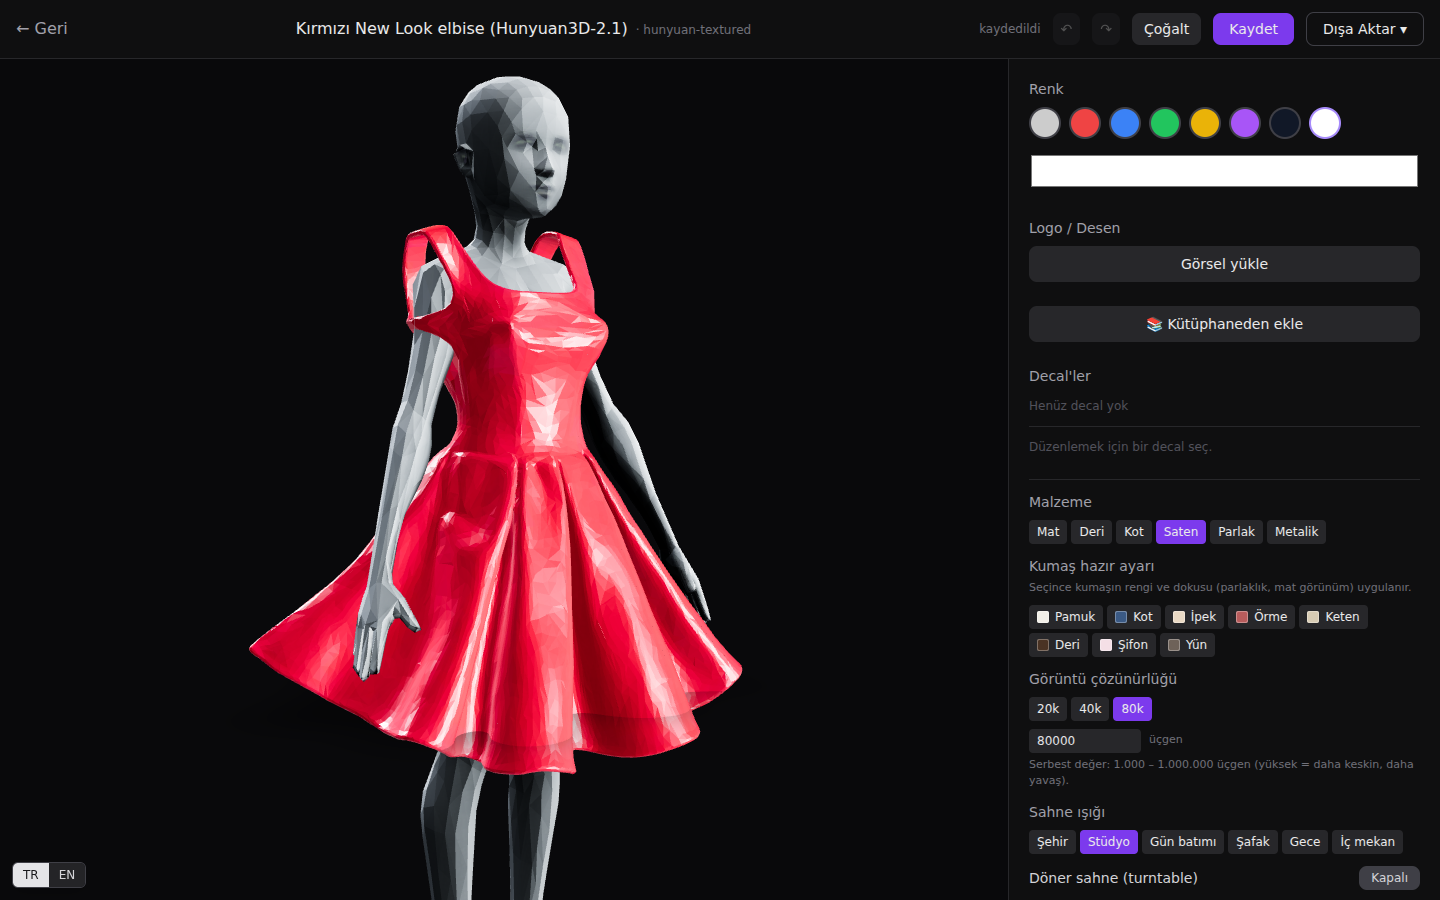
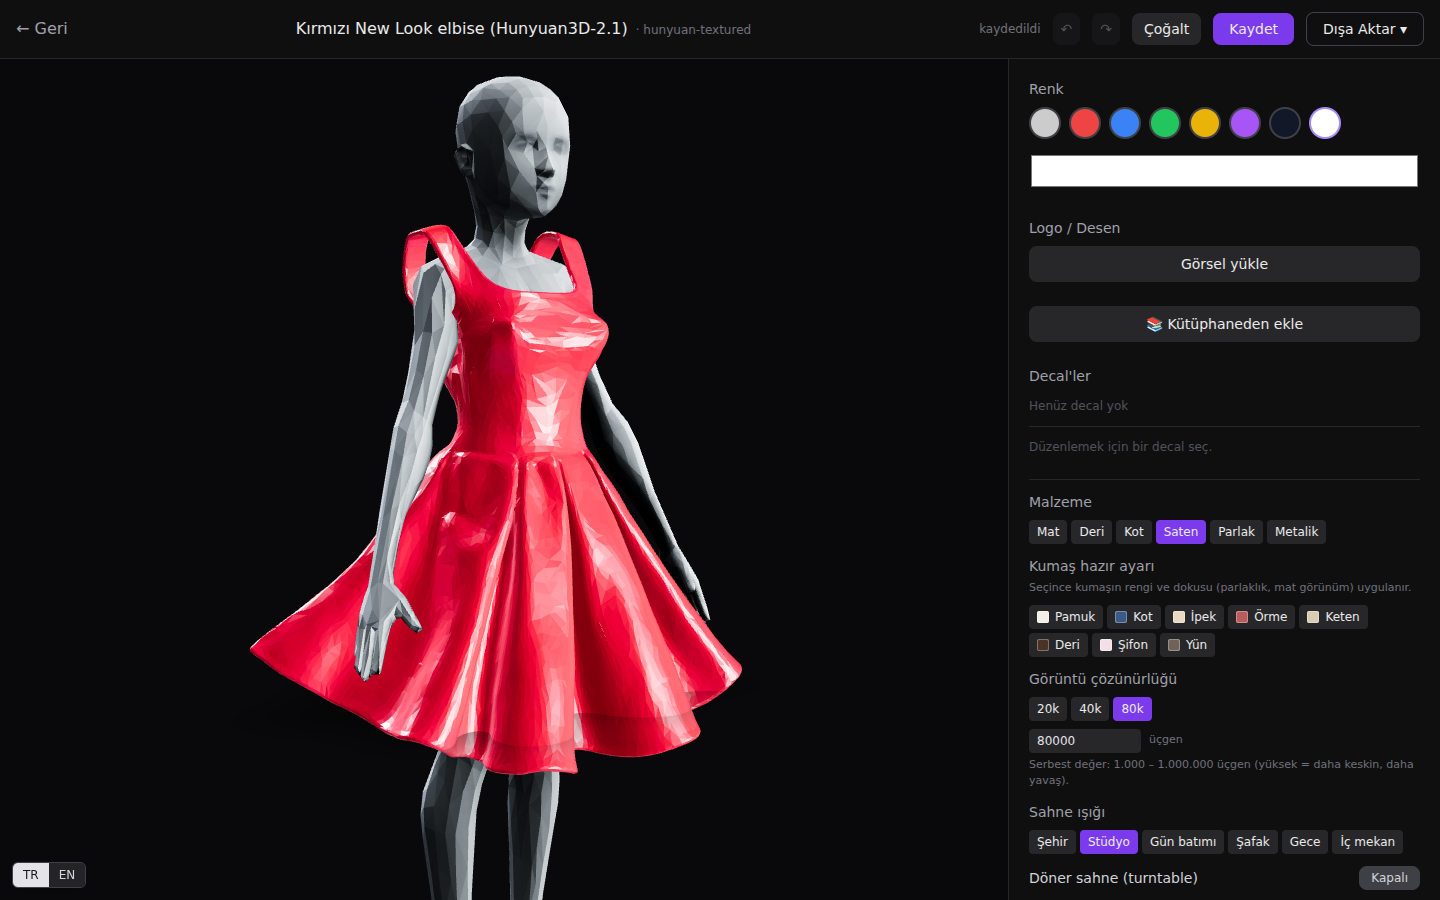
Showcase: dress re-fitted, the same dress through every local engine
- Re-dressed with the new fit; 07-09, the six views, grid and turntable retaken
  (arms now come out of the armholes).
- New section 4b (EN + TR): the same concept image through Hunyuan3D-2.1
  (textured and shape), TRELLIS, SAM 3D Objects, Hi3DGen, Stable Fast 3D and
  TripoSR, dressed automatically, with times and notes.

Changed region(s): [[0.2188, 0.4978, 0.4062, 0.8711], [0.2812, 0.28, 0.375, 0.4356], [0.375, 0.7467, 0.4062, 0.8711]]

diff --git a/docs/showcase/red-new-look-dress/README.md b/docs/showcase/red-new-look-dress/README.md
@@ -74,8 +74,32 @@ The same image was sent to three engines:
 
 SAM 3D Objects (third candidate, added later) gives a good silhouette, but the texture
 shifts toward a dark magenta (median texel RGB 92/5/43 vs. 155/0/15 in the concept)
-and the mesh is sparse (16k vertices). The automatic fit also placed it too high: the
-mannequin's head comes through the neckline. Hunyuan3D-2.1 stayed the winner.
+and the mesh is sparse (16k vertices). Hunyuan3D-2.1 stayed the winner.
+
+### 4b. Same dress, every local engine, on the mannequin
+
+![The same concept image through every local engine, dressed automatically](14-engines-dressed.png)
+
+The same concept image was sent to every installed image→3D engine with *dress on the
+mannequin* switched on; nothing was adjusted by hand. One GPU, engines run one after
+another.
+
+| Engine | Time (GPU 1) | Result |
+|---|---|---|
+| Hunyuan3D-2.1 textured | ~460 s (shape + paint) | The winner above: clean shape, PBR texture |
+| Hunyuan3D-2.1 shape | 87 s | Same clean shape, no texture (white) |
+| TRELLIS | 189 s | Good fit; the skirt has dark streaks and holes |
+| SAM 3D Objects | 272 s | Good fit; colour drifts to magenta |
+| Hi3DGen | 143 s | Shorter dress, crumpled straps, no texture |
+| Stable Fast 3D | 190 s | Lumpy surface, skirt too wide at the back |
+| TripoSR | 20 s | Fastest; low detail, blobby, closed neckline |
+
+Every engine's dress now sits on the shoulders with the arms out of the armholes. Two
+general fixes came out of this test (they help every garment, not just this dress):
+TripoSR models were exported lying on their side (its axis was not converted to glTF's
+Y-up), and with a very full skirt the arm search mistook the skirt around a hanging arm
+for a sleeve and left the arm inside the dress (Stable Fast 3D). A sleeve now has to
+start at the shoulder.
 
 ### 5. Dressed on the mannequin
 
@@ -178,7 +202,11 @@ Edge stretch p95 went from **1.20 → 1.03**; seam gap p95 is 0.55 mm.
   of the body. The new fit searches scale and position so the body fits inside the
   fabric, ignoring the depth that single-image engines flatten. The arm pose avoids
   cutting through the fabric (out of the armholes, outside a full skirt; inside the
-  sleeves for sleeved garments). It was checked on 70
+  sleeves for sleeved garments). Generated bodices are usually wider than the body, so
+  with the arm hanging naturally its root still cut through the side of the bodice and
+  the arm seemed to come out of the fabric rather than the armhole; below the armpit
+  that fabric is now moved between the arm and the body, as it sits on a real person.
+  Tight sleeves on sleeved garments (coats, jackets) can still touch the arm. It was checked on 70
   generated garments (t-shirts, shirts, hoodies, jackets, coats, five dresses, skirts,
   trousers, shorts); models that are not garments (a full human figure, a pile lying
   flat, a vase) are now rejected with a clear message.
@@ -269,8 +297,30 @@ Aynı görsel üç motora gönderildi:
 
 SAM 3D Objects (sonradan eklenen üçüncü aday) silueti iyi çıkarıyor. Ama doku koyu
 macentaya kayıyor (doku medyanı RGB 92/5/43, konseptte 155/0/15) ve mesh seyrek
-(16 bin vertex). Otomatik oturtma da elbiseyi fazla yukarı koydu; mankenin başı yakadan
-çıkıyor. Kazanan yine Hunyuan3D-2.1.
+(16 bin vertex). Kazanan yine Hunyuan3D-2.1.
+
+### 4b. Aynı elbise, tüm yerel motorlar, mankende
+
+![Aynı konsept görsel tüm yerel motorlardan, otomatik giydirilmiş](14-engines-dressed.png)
+
+Aynı konsept görsel, *mankene giydir* açıkken kurulu tüm görselden 3D motorlarına
+gönderildi; elle hiçbir ayar yapılmadı. Tek GPU, motorlar sırayla.
+
+| Motor | Süre (GPU 1) | Sonuç |
+|---|---|---|
+| Hunyuan3D-2.1 dokulu | ~460 sn (şekil + boya) | Yukarıdaki kazanan: temiz şekil, PBR doku |
+| Hunyuan3D-2.1 şekil | 87 sn | Aynı temiz şekil, dokusuz (beyaz) |
+| TRELLIS | 189 sn | İyi oturuyor; etekte koyu çizgiler ve delikler |
+| SAM 3D Objects | 272 sn | İyi oturuyor; renk macentaya kayıyor |
+| Hi3DGen | 143 sn | Elbise kısa, askılar buruşuk, dokusuz |
+| Stable Fast 3D | 190 sn | Yüzey topak topak, etek arkada fazla geniş |
+| TripoSR | 20 sn | En hızlı; az detay, şişkin, yaka kapalı |
+
+Artık her motorun elbisesi omuzlara oturuyor, kollar kol oyuğundan çıkıyor. Bu denemeden
+iki genel düzeltme çıktı (yalnız bu elbiseye değil, tüm kıyafetlere yarıyor): TripoSR
+modelleri yan yatık dışa aktarılıyordu (ekseni glTF'in Y-yukarı eksenine çevrilmemişti);
+çok bol etekte kol araması, aşağı sarkan kolu saran eteği kolluk sanıp kolu elbisenin
+içinde bırakıyordu (Stable Fast 3D). Artık kolluk omuzdan başlamak zorunda.
 
 ### 5. Mankende
 
@@ -372,7 +422,11 @@ Kenar uzaması p95 **1,20 → 1,03**; dikiş boşluğu p95 0,55 mm.
   duruyordu. Yeni kod ölçek ve konumu, gövde kumaşın içine sığacak şekilde arıyor; tek
   görselden üretilen motorların basık bıraktığı derinliğe güvenmiyor. Kol pozu kumaşı
   kesmeyecek şekilde seçiliyor (kolsuzda kol oyuğundan çıkıp bol eteğin dışından iner,
-  kolluda kolluğun içinde kalır). 70 üretilmiş kıyafette
+  kolluda kolluğun içinde kalır). Üretilen korsajlar genelde gövdeden geniş olduğundan
+  doğal duruşta kolun kökü korsajın yanını kesiyor, kol oyuktan değil kumaşın içinden
+  çıkıyor gibi görünüyordu; koltuk altının altındaki o kumaş artık gerçek bedende olduğu
+  gibi kol ile gövde arasına alınıyor. Kolluklu giysilerde (palto, ceket) dar kolluk
+  hâlâ kola değebiliyor. 70 üretilmiş kıyafette
   denendi (tişört, gömlek, kapüşonlu, ceket, palto, beş elbise, etek, pantolon, şort);
   kıyafet olmayan modeller (tam insan figürü, yatık yığın, vazo) artık net bir mesajla
   reddediliyor.
